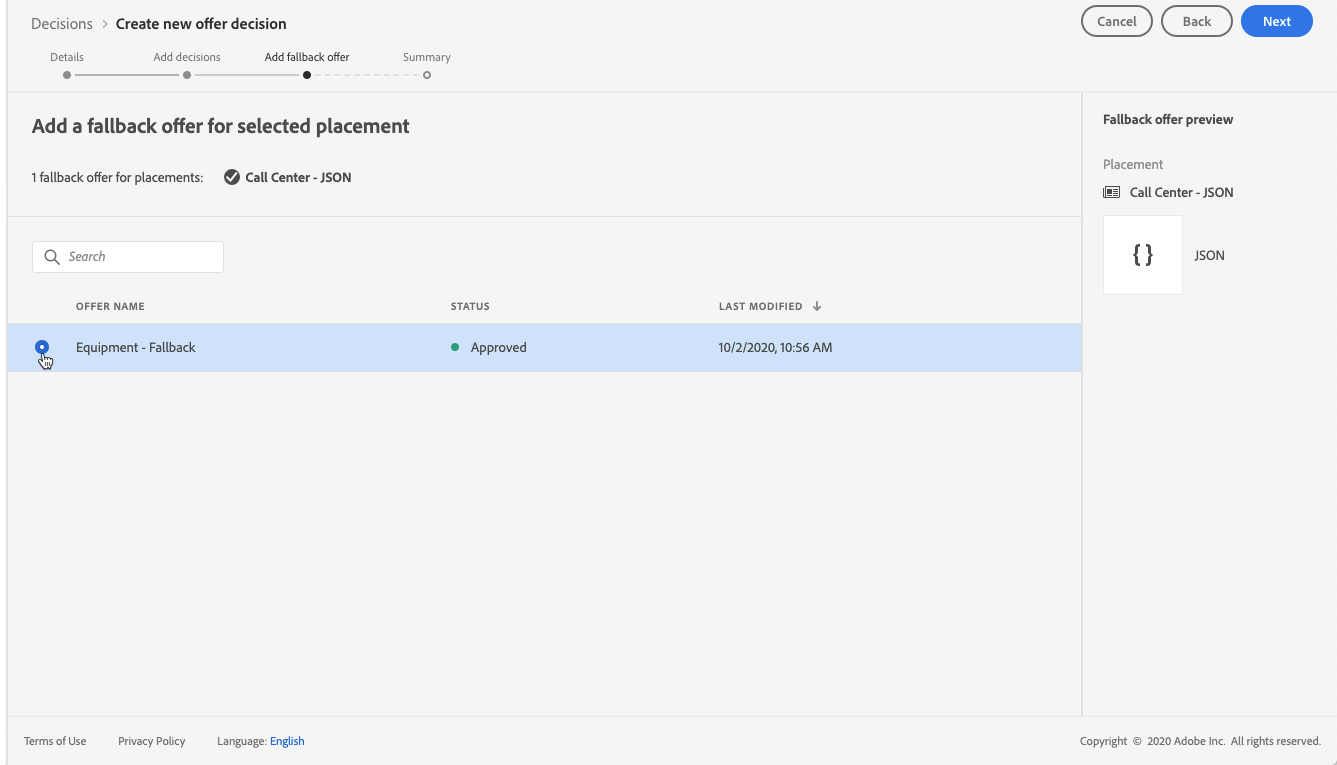
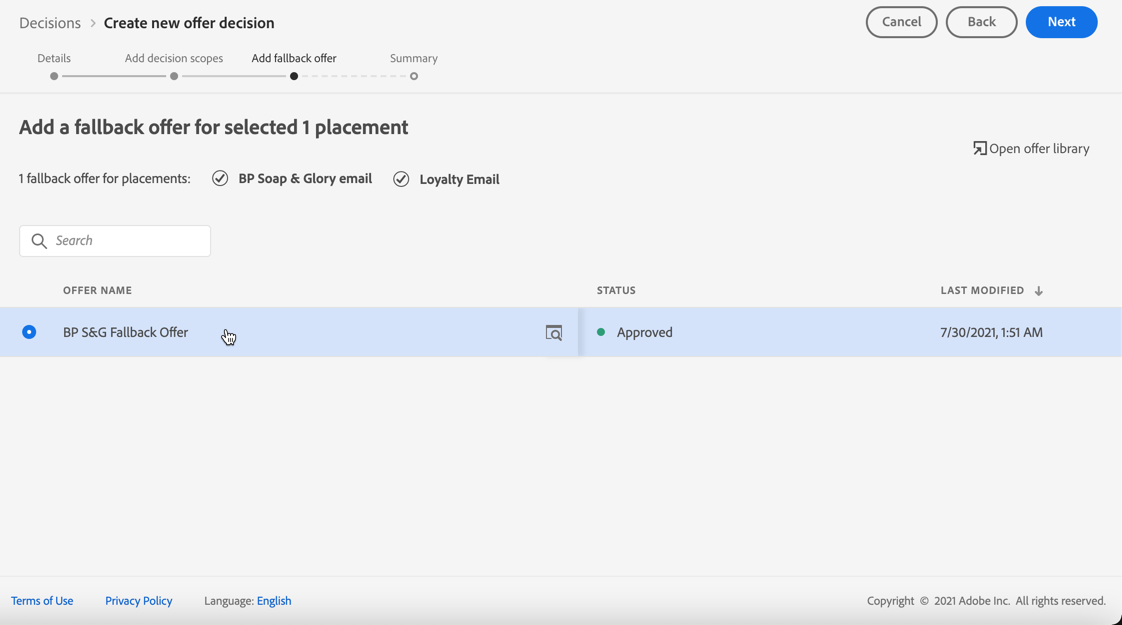
decision flow v2 updates

diff --git a/help/using/offers/offer-activities/create-offer-activities.md b/help/using/offers/offer-activities/create-offer-activities.md
@@ -40,11 +40,11 @@ Before creating a decision, make sure that the components below have been create
 
     ![](../../assets/activities-placement.png)
 
-1. Click **[!UICONTROL Add]** to select your evaluation criteria for this placement.
+1. Click **[!UICONTROL Add]** to select evaluation criteria for this placement.
 
     ![](../../assets/activities-evaluation-criteria.png)
 
-    Evaluation criteria include offer collection, eligibility, and ranking method for the offers to be shown in the placement. They determine which collection will be evaluated first.
+    Each criteria consists in an offer collection associated with an eligibility constraint and a ranking method to determine the offers to be shown in the placement.
     
     >[!NOTE]
     >
@@ -70,37 +70,37 @@ Before creating a decision, make sure that the components below have been create
 
         ![](../../assets/activity_constraint_segment.png)
     
-        Add one or several segments from the left pane, combine them using the **[!UICONTROL And]** / **[!UICONTROL Or]** logical operators. Click **[!UICONTROL Select]** to confirm.
+        Add one or several segments from the left pane, and combine them using the **[!UICONTROL And]** / **[!UICONTROL Or]** logical operators.
 
         ![](../../assets/activity_constraint_segment2.png)
 
-        Learn more on how to work with segments in [this section](../../segment/about-segments.md).
+        Learn how to work with segments in [this section](../../segment/about-segments.md).
 
-    * If you want to add a selection constraint for this placement using a decision rule, use the **[!UICONTROL Decision rule]** option and select the rule of your choice.
+    * If you want to add a selection constraint with a decision rule, use the **[!UICONTROL Decision rule]** option and select the rule of your choice.
 
         ![](../../assets/activity_constraint_rule.png)
 
-        Learn more on how to create a decision rule in [this section](../offer-library/creating-decision-rules.md).
+        Learn how to create a decision rule in [this section](../offer-library/creating-decision-rules.md).
 
 1. Define the ranking method you want to use to select the best offer for each profile.
 
     ![](../../assets/activity_ranking-method.png)
 
-    * By default, if multiple offers are eligible for this placement, the offers with the highest priority score will be delivered to the customer.
+    * By default, if multiple offers are eligible for this placement, the offer with the highest priority score will be delivered to the customer.
 
     * If you want to use a specific formula to choose which eligible offer to deliver, select **[!UICONTROL Ranking formula]**. Learn how to rank offers in [this section](../offer-activities/configure-offer-selection.md).
 
-1. Click **[!UICONTROL Add]** to define more placements for this decision scope.
+1. Click **[!UICONTROL Add]** to define more criteria for the same placement.
 
     ![](../../assets/activity_add-collection.png)
 
-1. When you add several collections, they will be evaluated in a specific order. The first collection that was added to the sequence will be evaluated first, and so on.
+1. When you add several criteria, they will be evaluated in a specific order. The first collection that was added to the sequence will be evaluated first, and so on.
     
     To change the default sequence, you can drag and drop the collections to reorder them as wanted.
 
     ![](../../assets/activity_reorder-collections.png)
     
-1. You can also evaluate several collections at the same time. To do so, drap and drop the collection on top of another.
+1. You can also evaluate several criteria at the same time. To do so, drap and drop the collection on top of another.
 
     ![](../../assets/activity_move-collection.png)
 
@@ -108,7 +108,7 @@ Before creating a decision, make sure that the components below have been create
 
     ![](../../assets/activity_same-rank-collections.png)
 
-1. To add another placement for your offers, add another decision scope using the **[!UICONTROL New scope]** button. Repeat the steps above for each scope.
+1. To add another placement for your offers as part of this decision, use the **[!UICONTROL New scope]** button. Repeat the steps above for each decision scope.
 
     ![](../../assets/activity_new-scope.png)
 
@@ -134,15 +134,28 @@ Basically, the output of a segment is a list of profiles, whereas a decision rul
 
 ## Add a fallback offer {#add-fallback}
 
-Once you defined the decision scopes, select the fallback offer that will be presented as a last resort to the customers that do not match the offers eligibility rules and constraints, then click **[!UICONTROL Next]**.
+Once you defined the decision scopes, define the fallback offer that will be presented as a last resort to the customers that do not match the offers eligibility rules and constraints.
+
+To do so, select it from the list of available fallback offers for the placements defined in the decision, then click **[!UICONTROL Next]**.
 
 ![](../../assets/add-fallback-offer.png)
+
+>[!NOTE]
+    >
+    >You can click the **[!UICONTROL Open offer library]** link to display the list of offers in a new tab.
 
 ## Review and save the decision {#review}
 
 If everything is configured properly, a summary of the decision properties displays. 
 
-1. Make sure decision is ready to be used to  present offers to customers.
+1. Make sure the decision is ready to be used to  present offers to customers. All the decision scopes and the fallback offer it contains are displayed.
+
+    ![](../../assets/review-decision.png)
+
+    You can expand or collapse each placement. You can also preview the available offers, eligibility and ranking details for each placement.
+
+    ![](../../assets/review-decision-details.png)
+
 1. Click **[!UICONTROL Finish]**.
 1. Then select **[!UICONTROL Save and activate]**.
 
